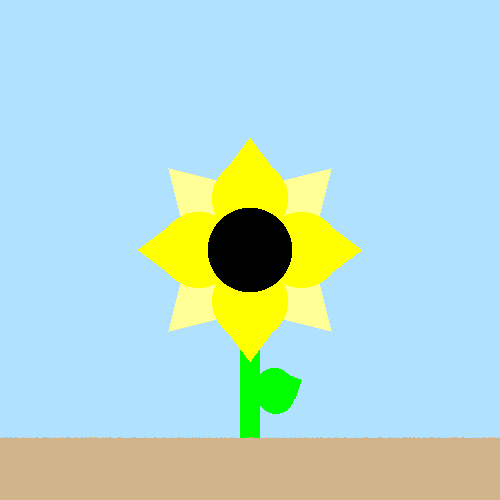
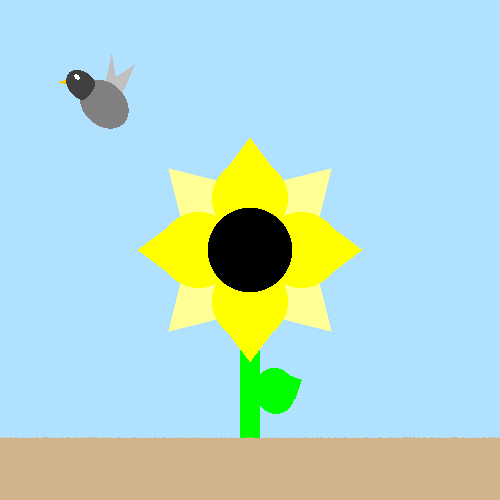
Fixing87

Changed region(s): [[0.12, 0.12, 0.27, 0.27]]

diff --git a/unittests/renderer/FirstMpTests.java b/unittests/renderer/FirstMpTests.java
@@ -3,90 +3,179 @@ package renderer;
 import geometries.Geometries;
 import geometries.*;
 import geometries.Triangle;
+import lighting.*;
+import lighting.SpotLight;
 import org.junit.jupiter.api.Test;
-import primitives.Color;
+import primitives.*;
 import primitives.Point;
 import scene.Scene;
+
+import java.util.List;
 
 import static java.awt.Color.WHITE;
 
 public class FirstMpTests {
-
-
-
     /**The geometries of the scene*/
     Geometries geometries= new Geometries(
             //The flower
             //Up-Yellow
-            new Triangle( new Point(-3, 5, -20), new Point(3, 5, -20), new Point(0, 9, -20)).setEmission(new Color(java.awt.Color.YELLOW)),
-            new Sphere( 3,new Point(0, 4, -20)).setEmission(new Color(java.awt.Color.YELLOW)),
+            new Triangle( new Point(-3, 5, -20), new Point(3, 5, -20), new Point(0, 9, -20))
+                    .setEmission(new Color(java.awt.Color.YELLOW))
+                    .setMaterial(new Material().setKd(0.8).setKs(0.2).setShininess(30)),
+            new Sphere( 3,new Point(0, 4, -20))
+                    .setEmission(new Color(java.awt.Color.YELLOW))
+                    .setMaterial(new Material().setKd(0.8).setKs(0.2).setShininess(30)),
 
             //Down-Yellow
-            new Triangle( new Point(-3, -5, -20), new Point(3, -5, -20), new Point(0, -9, -20)).setEmission(new Color(java.awt.Color.YELLOW)),
-            new Sphere( 3,new Point(0, -4, -20)).setEmission(new Color(java.awt.Color.YELLOW)),
+            new Triangle( new Point(-3, -5, -20), new Point(3, -5, -20), new Point(0, -9, -20))
+                    .setEmission(new Color(java.awt.Color.YELLOW))
+                    .setMaterial(new Material().setKd(0.8).setKs(0.2).setShininess(30)),
+            new Sphere( 3,new Point(0, -4, -20))
+                    .setEmission(new Color(java.awt.Color.YELLOW))
+                    .setMaterial(new Material().setKd(0.8).setKs(0.2).setShininess(30)),
 
-           //Left-Yellow
-            new Triangle( new Point(-5, 3, -20), new Point(-5, -3, -20), new Point(-9, 0, -20)).setEmission(new Color(java.awt.Color.YELLOW)),
-            new Sphere( 3,new Point(-4, 0, -20)).setEmission(new Color(java.awt.Color.YELLOW)),
+            //Left-Yellow
+            new Triangle( new Point(-5, 3, -20), new Point(-5, -3, -20), new Point(-9, 0, -20))
+                    .setEmission(new Color(java.awt.Color.YELLOW))
+                    .setMaterial(new Material().setKd(0.8).setKs(0.2).setShininess(30)),
+            new Sphere( 3,new Point(-4, 0, -20))
+                    .setEmission(new Color(java.awt.Color.YELLOW))
+                    .setMaterial(new Material().setKd(0.8).setKs(0.2).setShininess(30)),
 
             //Right-Yellow
-            new Triangle( new Point(5, 3, -20), new Point(5, -3, -20), new Point(9, 0, -20)).setEmission(new Color(java.awt.Color.YELLOW)),
-            new Sphere( 3,new Point(4, 0, -20)).setEmission(new Color(java.awt.Color.YELLOW)),
+            new Triangle( new Point(5, 3, -20), new Point(5, -3, -20), new Point(9, 0, -20))
+                    .setEmission(new Color(java.awt.Color.YELLOW))
+                    .setMaterial(new Material().setKd(0.8).setKs(0.2).setShininess(30)),
+            new Sphere( 3,new Point(4, 0, -20))
+                    .setEmission(new Color(java.awt.Color.YELLOW))
+                    .setMaterial(new Material().setKd(0.8).setKs(0.2).setShininess(30)),
 
             //Center
-            new Sphere( 2.5,new Point(0, 0, -15)).setEmission(new Color(java.awt.Color.BLACK)),
+            new Sphere( 2.5,new Point(0, 0, -15))
+                    .setEmission(new Color(java.awt.Color.BLACK))
+                    .setMaterial(new Material().setKd(0.7).setKs(0.3).setShininess(50)),
 
             //Up right-ORANGE
-            new Triangle( new Point(6.5,3.5 , -23), new Point(3.5, 6.5, -23), new Point(7.5, 7.5, -23)).setEmission(new Color(255, 255, 150)),
-            new Sphere( 2.5,new Point(4, 4, -23)).setEmission(new Color(255, 255, 150)),
+            new Triangle( new Point(6.5,3.5 , -23), new Point(3.5, 6.5, -23), new Point(7.5, 7.5, -23))
+                    .setEmission(new Color(255, 255, 150))
+                    .setMaterial(new Material().setKd(0.2).setKs(0.2).setShininess(30)),
+            new Sphere( 2.5,new Point(4, 4, -23))
+                    .setEmission(new Color(255, 255, 150))
+                    .setMaterial(new Material().setKd(0.2).setKs(0.2).setShininess(30)),
 
             //Up left-ORANGE
-            new Triangle( new Point(-6.5, 3.5, -23), new Point(-3.5, 6.5, -23), new Point(-7.5, 7.5, -23)).setEmission(new Color(255, 255, 150)),
-            new Sphere( 2.5,new Point(-4, 4, -23)).setEmission(new Color(255, 255, 150)),
+            new Triangle( new Point(-6.5, 3.5, -23), new Point(-3.5, 6.5, -23), new Point(-7.5, 7.5, -23))
+                    .setEmission(new Color(255, 255, 150))
+                    .setMaterial(new Material().setKd(0.2).setKs(0.2).setShininess(30)),
+            new Sphere( 2.5,new Point(-4, 4, -23))
+                    .setEmission(new Color(255, 255, 150))
+                    .setMaterial(new Material().setKd(0.2).setKs(0.2).setShininess(30)),
 
             //Down right-ORANGE
-            new Triangle( new Point(6.5, -3.5, -23), new Point(3.5, -6.5, -23), new Point(7.5, -7.5, -23)).setEmission(new Color(255, 255, 150)),
-            new Sphere( 2.5,new Point(4, -4, -23)).setEmission(new Color(255, 255, 150)),
+            new Triangle( new Point(6.5, -3.5, -23), new Point(3.5, -6.5, -23), new Point(7.5, -7.5, -23))
+                    .setEmission(new Color(255, 255, 150))
+                    .setMaterial(new Material().setKd(0.2).setKs(0.2).setShininess(30)),
+            new Sphere( 2.5,new Point(4, -4, -23))
+                    .setEmission(new Color(255, 255, 150))
+                    .setMaterial(new Material().setKd(0.2).setKs(0.2).setShininess(30)),
 
             //Down left-ORANGE
-            new Triangle( new Point(-6.5, -3.5, -23), new Point(-3.5, -6.5, -23), new Point(-7.5, -7.5, -23)).setEmission(new Color(255, 255, 150)),
-            new Sphere( 2.5,new Point(-4, -4, -23)).setEmission(new Color(255, 255, 150)),
+            new Triangle( new Point(-6.5, -3.5, -23), new Point(-3.5, -6.5, -23), new Point(-7.5, -7.5, -23))
+                    .setEmission(new Color(255, 255, 150))
+                    .setMaterial(new Material().setKd(0.2).setKs(0.2).setShininess(30)),
+            new Sphere( 2.5,new Point(-4, -4, -23))
+                    .setEmission(new Color(255, 255, 150))
+                    .setMaterial(new Material().setKd(0.2).setKs(0.2).setShininess(30)),
 
             //The land
             new Polygon(
-                    new Point(-20, -20, -20),
-                    new Point(-20, -15, -20),
-                    new Point(20, -15, -20),
-                    new Point(20, -20, -20)
+                    new Point(-20, -20, -17),
+                    new Point(-20, -14, -17),
+                    new Point(20, -14, -17),
+                    new Point(20, -20, -17)
             ).setEmission(new Color(210, 180, 140)),
 
             //The stalk
-            new Polygon(new Point(-1, 0, -25),
-                    new Point(1, 0, -25),
-                    new Point(1, -20, -25),
-                    new Point(-1, -20, -25)).setEmission(new Color( java.awt.Color.GREEN)),
+            new Polygon(new Point(-1, 0, -21),
+                    new Point(1, 0, -21),
+                    new Point(1, -20, -21),
+                    new Point(-1, -20, -21))
+                    .setEmission(new Color( java.awt.Color.GREEN))
+                    .setMaterial(new Material().setKd(0.8).setKs(0.2).setShininess(20)),
 
             //The leave
-            new Triangle( new Point(4.5, -15, -25), new Point(2.5, -12, -25), new Point(5.2, -13, -25)).setEmission(new Color(java.awt.Color.GREEN)),
-            new Sphere( 2,new Point(2.5, -14, -25)).setEmission(new Color(java.awt.Color.GREEN))
-            );
+            new Triangle( new Point(4.5, -15, -21), new Point(2.5, -12, -21), new Point(5.2, -13, -21))
+                    .setEmission(new Color(java.awt.Color.GREEN))
+                    .setMaterial(new Material().setKd(0.8).setKs(0.2).setShininess(20)),
+            new Sphere( 2,new Point(2.5, -14, -21))
+                    .setEmission(new Color(java.awt.Color.GREEN))
+                    .setMaterial(new Material().setKd(0.8).setKs(0.2).setShininess(20)),
+
+            //The bird - Enhanced flying bird
+            //The body (main body)
+            new Sphere( 3.2,new Point(-22, 22, -38))
+                    .setEmission(new Color(java.awt.Color.GRAY))
+                    .setMaterial(new Material().setKd(0.7).setKs(0.3).setShininess(40)),
+            //The head
+            new Sphere( 1.8,new Point(-23.5, 23, -35))
+                    .setEmission(new Color(java.awt.Color.DARK_GRAY))
+                    .setMaterial(new Material().setKd(0.7).setKs(0.3).setShininess(40)),
+            //Small details - eye
+            new Sphere( 0.3,new Point(-22.5, 22.5, -32.5))
+                    .setEmission(new Color(java.awt.Color.WHITE))
+                    .setMaterial(new Material().setKd(0.5).setKs(0.5).setShininess(100)),
+            ////Small details - beak
+            new Triangle( new Point(-25, 24, -35), new Point(-25, 23, -35), new Point(-27, 23.5, -35))
+                    .setEmission(new Color(java.awt.Color.ORANGE))
+                    .setMaterial(new Material().setKd(0.8).setKs(0.2).setShininess(30)),
+            //The wings
+            new Triangle( new Point(-22, 25.2, -38), new Point(-20, 24, -38), new Point(-21, 30, -38))
+                    .setEmission(new Color(192, 192, 192))
+                    .setMaterial(new Material().setKd(0.2).setKs(0.3).setShininess(40)),
+            new Triangle( new Point(-22, 25.2, -38), new Point(-19.5, 23.5, -38), new Point(-17, 27.5, -37))
+                    .setEmission(new Color(192, 192, 192))
+                    .setMaterial(new Material().setKd(0.2).setKs(0.3).setShininess(40))
+    );
 
     /**The scene of the camera*/
-    Scene scene = new Scene("Test scene").setBackground( new Color(176, 226, 255)).setGeometries(geometries);
+    Scene scene = new Scene("Test scene").setBackground( new Color(176, 226, 255)).setGeometries(geometries)
+            .setLights(List.of(
+                    new PointLight(new Color(80, 60, 60), new Point(-8, 12, 8))
+                            .setKl(0.012).setKq(0.0015),
+                    new SpotLight(new Color(160, 125, 80), new Point(8, 8, 6), new Vector(-1, -1, -2))
+                            .setKl(0.012).setKq(0.0015),
+                    new DirectionalLight(new Color(70, 70, 70), new Vector(-0.3, -0.5, -1))
+            ));
 
-
-    /** Create a camera with a specific location and direction*/
-    Camera cam1 = Camera.getBuilder()
-            .setLocation(new Point(0, 0, 0))
-            .setDirection(new Point(0, 0, -1))
-            .setVpSize(20, 20)
-            .setVpDistance(10)
-            .setResolution(500,500)
-            .setRayTracer(scene, RayTracerType.SIMPLE)
-            .build();
 
     @Test
-    void test(){
-        cam1.renderImage().writeToImage("Trying");
+    void test1(){
+        /** Create a camera with a specific location and direction*/
+        Camera cam1 = Camera.getBuilder()
+                .setLocation(new Point(0, 0, 0))
+                .setDirection(new Point(0, 0, -1))
+                .setVpSize(20, 20)
+                .setVpDistance(10)
+                .setResolution(500,500)
+                .setRayTracer(scene, RayTracerType.SIMPLE)
+                .build();
+        cam1.renderImage().writeToImage("BasicFlower");
+    }
+
+    @Test
+    void test2() {
+        /** Create a camera with a specific location and direction*/
+        Camera cam2 = Camera.getBuilder()
+                .setLocation(new Point(0, 0, 0))
+                .setDirection(new Point(0, 0, -1))
+                .setVpSize(20, 20)
+                .setVpDistance(10)
+                .setResolution(500, 500)
+                .setRayTracer(scene, RayTracerType.SIMPLE)
+                .setDofRays(5)
+                .setAperture(0.5)
+                .setFocalDistance(17)
+                .build();
+        cam2.renderImage().writeToImage("ImprovedFlower");
     }
 }
